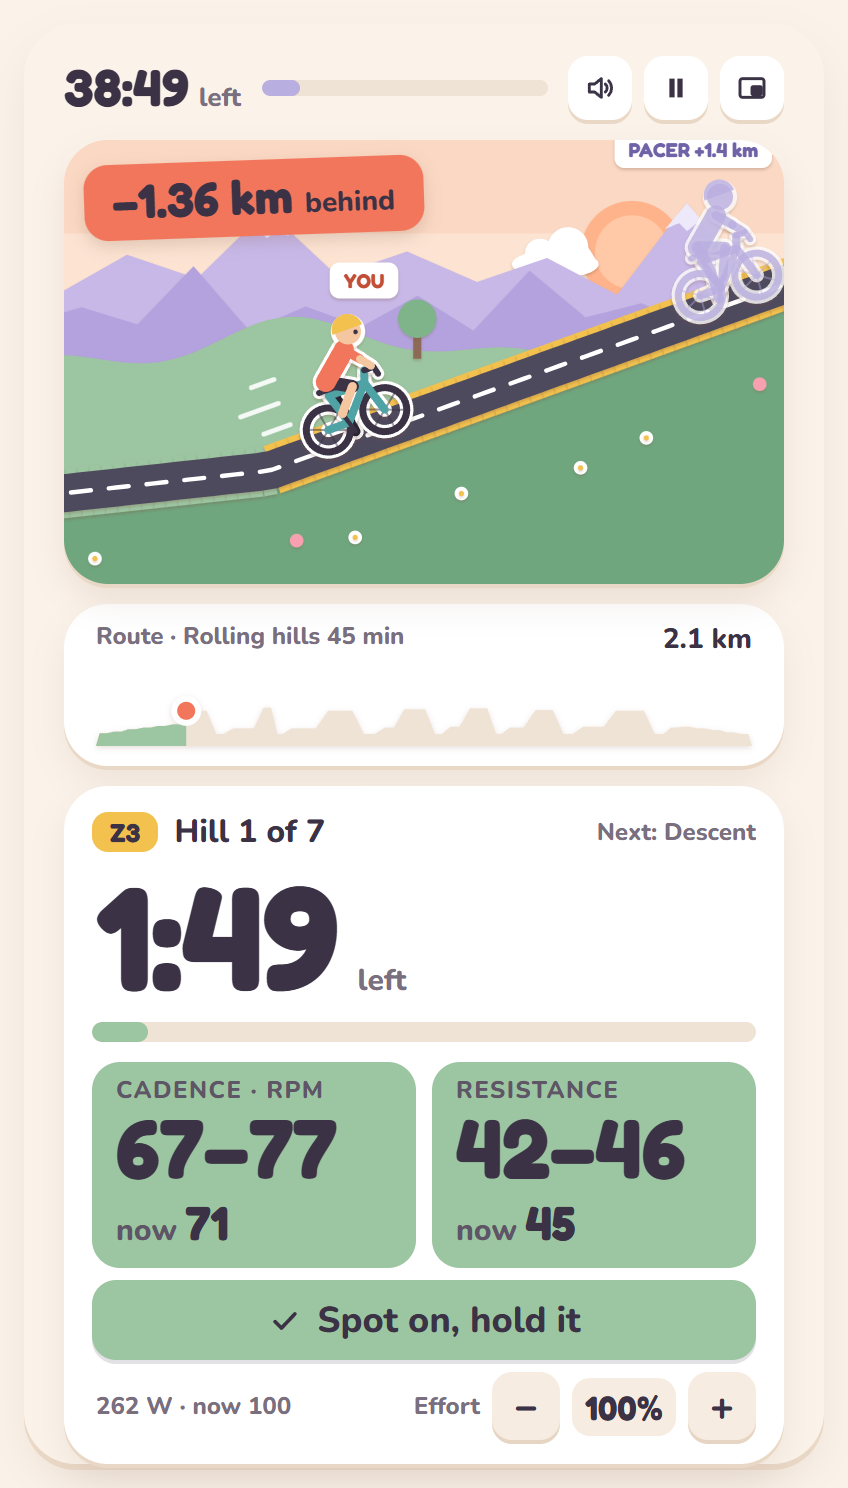
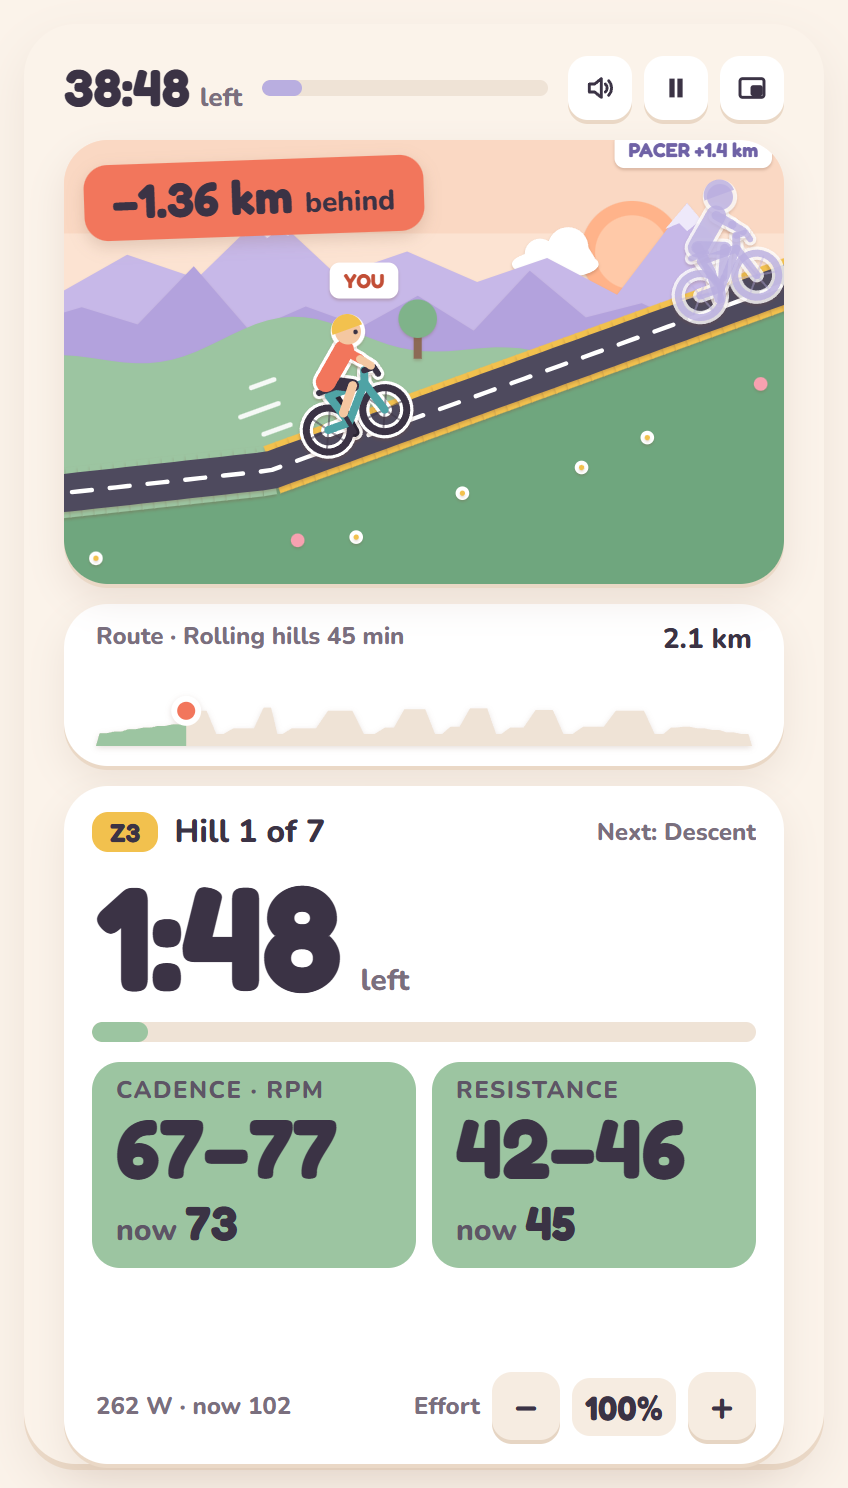
Hide the "Spot on" line when on target; shorter README
- With both tiles green there is nothing to change, so the hint line
  hides (keeping its space, so the window doesn't jump).
- The user-facing half of the README is about half the length.
- Ride screenshot retaken to match.

Claude-Session: https://claude.ai/code/session_019bcLdA25aR7snsdYMj9RXw

diff --git a/src/ui/app.js b/src/ui/app.js
@@ -930,6 +930,9 @@ function renderRide() {
     cue.dataset.icon = snap.cue.type;
   }
   $('cue-text').textContent = state.started ? snap.cue.text : 'Start pedalling';
+  // Nothing to change when both tiles are green, so the line steps aside. It
+  // keeps its space, so the window doesn't jump when it comes back.
+  cue.style.visibility = state.started && snap.cue.type === 'ok' ? 'hidden' : 'visible';
 
   updateRoute($('ride-panel'), s.workout, snap.t, ROUTE_W, ROUTE_H, state.routeHeight);
   $('route-dist').textContent = fmtKm(snap.dist);

diff --git a/README.md b/README.md
@@ -6,43 +6,30 @@
   <img src="docs/ride.png" alt="The Pacer mini window during a hill climb" width="280">
 </p>
 
-Riding a spin bike in front of Netflix or YouTube is a great way to get the
-minutes in, but it's easy to drift into a lazy spin. Pacer is a small window
-that sits on top of your show and tells you what to do next: what resistance
-to set, how fast to pedal, and how long until it changes.
+Pacer is a small window that sits on top of Netflix or YouTube while you ride
+your spin bike. It tells you what resistance to set, how fast to pedal, and
+how long until it changes.
 
-- 📺 **Made for watching something else.** One small always-on-top window,
-  readable at a glance from the saddle.
-- 🎯 **Spin-class targets.** A resistance and a cadence for every step, in the
+- 📺 **Stays on top of your show**, and is readable at a glance from the saddle.
+- 🎯 **Spin-class targets**: a resistance and a cadence for every step, in the
   numbers your bike's screen shows.
-- 👻 **Race yourself.** Each ride is a little cartoon race against your best
-  ride on that workout.
-- 🪶 **Lightweight.** Runs in your browser. No account, no subscription, no
-  installer, and nothing leaves your computer.
+- 👻 **Race yourself**: every ride is a cartoon race against your best one.
+- 🪶 **Lightweight**: it runs in your browser, with no account, and nothing
+  leaves your computer.
 
-Works with bikes that use standard Bluetooth (FTMS), such as the Schwinn
-800IC / IC4 / IC8 and Bowflex C6. Built and tested on a Schwinn 800IC.
+Works with standard Bluetooth (FTMS) bikes such as the Schwinn 800IC / IC4 /
+IC8 and Bowflex C6. Built and tested on a Schwinn 800IC.
 
 ## 🚀 Get started
 
-You need a computer with Bluetooth, **Chrome or Edge**, and
-[Node.js](https://nodejs.org) 18 or newer.
+You need **Chrome or Edge**, Bluetooth, and [Node.js](https://nodejs.org) 18+.
 
-1. Download this repository, open a terminal in its folder and run:
-
-   ```sh
-   npm start
-   ```
-
-2. Open <http://localhost:5173> in Chrome or Edge.
-3. Close any other app connected to your bike (Peloton, Zwift, JRNY), pedal a
-   few turns to wake it, then click **Connect bike** and pick it from the list.
-4. The first time, Pacer asks you to **calibrate**: about two and a half
-   minutes of pedalling so its resistance numbers match your bike's screen.
-5. Set your **easy pace** (step 3 of *Build a ride*): the resistance and
-   cadence you could hold while chatting. Every ride is sized from that.
-
-Then put your show on, build a ride and press **Start ride**.
+1. Download this repository and run `npm start` in its folder.
+2. Open <http://localhost:5173>.
+3. Pedal to wake the bike, click **Connect bike** and pick it from the list.
+   Close Peloton, Zwift or JRNY first: a bike takes one connection at a time.
+4. Calibrate when prompted (about two and a half minutes of pedalling), then
+   set your **easy pace**: the resistance and cadence you could chat at.
 
 ## 🛠 Build a ride
 
@@ -50,40 +37,21 @@ Then put your show on, build a ride and press **Start ride**.
   <img src="docs/build-a-ride.png" alt="Build a ride" width="760">
 </p>
 
-Four quick steps, and your choices are remembered for next time:
-
-1. ⏱ **Length.** A sitcom (22 min), half an hour, a drama (45), a double
-   (60), or anything from 10 to 120 minutes.
-2. 🗺 **Type.** Thirteen rides in four groups: *Steady* (endurance, recovery
-   spin, sweet spot), *Natural* (rolling hills, mountain climb, fartlek),
-   *Intervals* (intervals, HIIT, pyramid, sprints, cadence drills) and *Mixed*
-   (spin class, mix it up).
-3. 💪 **Effort.** Very easy, Easy, Normal, Hard or Very hard, or an exact
-   percentage. The preview shows what it will ask of you.
-4. 🏁 **Race.** Your best ride on this workout, your last one, or a pacer that
-   hits every target.
+Pick a length from 10 to 120 minutes, one of thirteen kinds of ride (steady,
+hills, intervals, spin class and more), how hard you want it, and who to race.
+Your choices are remembered, so next time it's one click.
 
 ## 📺 During a ride
 
-The ride opens in a small window that stays on top of everything else, so your
-show can be full screen behind it. Drag it bigger if the screen is across the
-room.
+- 🟩 Two tiles, **cadence** and **resistance**: green is in range, yellow too
+  low, blue too high.
+- ⛰ The road is the workout. A steeper hill means more resistance.
+- 🔔 A chime warns you before each change, so your eyes can stay on the show.
+- 🎚 Off day? **Effort − / +** makes the rest of the ride easier or harder.
 
-- 🟩 Two tiles, **cadence** and **resistance**. Green means you're in range,
-  yellow means too low, blue means too high, and a line underneath says what to
-  change.
-- ⛰ The road is the workout: a steeper hill means more resistance. Climbs are
-  ridden slow and heavy, recoveries light and fast.
-- 🔔 A soft chime warns you before each change, so you can keep your eyes on
-  the show.
-- ⚡ Hard blocks end in a 30-second sprint against your ghost.
-- 🎚 Having an off day? **Effort − / +** makes the rest of the ride easier or
-  harder.
+## 📈 Afterwards
 
-## 📈 After a ride
-
-The summary shows how the race went and how each hard effort compared with
-last time. **Statistics** keeps your totals, minutes per week and every ride.
+A summary of the race, and **Statistics** with your totals and minutes per week.
 
 <p align="center">
   <img src="docs/statistics.png" alt="Statistics" width="760">
@@ -91,40 +59,23 @@ last time. **Statistics** keeps your totals, minutes per week and every ride.
 
 ## 🔧 Calibration
 
-Most spin bikes have no power meter: they estimate watts from the resistance
-and how fast you pedal, and every model does it differently. Calibrating
-teaches Pacer your bike's formula. If the bike reports its resistance (the
-800IC does), Pacer keeps learning from every ride.
-
-**Calibration** in the top bar shows what it has learned.
+Spin bikes estimate watts from resistance and cadence, each model in its own
+way. Calibrating teaches Pacer your bike's formula, and if the bike reports
+its resistance (the 800IC does) it keeps learning from every ride.
 
 <p align="center">
   <img src="docs/calibration.png" alt="Calibration" width="460">
 </p>
 
-## 💾 Your data
+## 🩹 Good to know
 
-Rides and settings live in your browser, on your computer. **Import / export**
-saves them to a backup file or loads one, which is also how you move to another
-computer. Your bike's calibration is saved as `calibration.json` in the Pacer
-folder.
-
-## 🩹 If something goes wrong
-
-- **"Web Bluetooth needs Chrome or Edge."** Open Pacer in one of those, at
-  `http://localhost:5173`.
-- **The bike isn't in the list.** Pedal to wake it and check that no other app
-  or phone is connected to it. Still missing? Hold Shift and click **Connect
-  bike** to list every Bluetooth device nearby.
-- **It connects, but the numbers stay at zero.** Some bikes only send data
-  while you're pedalling.
-- **The resistance numbers don't match the bike's screen.** Open
-  **Calibration** and calibrate again.
-- **The watts look high.** They're whatever the bike reports, and bikes like
-  the 800IC estimate generously. It doesn't matter here: you only race
-  yourself on the same bike.
-- **No small window appeared.** Floating windows need Chrome or Edge 116 or
-  newer. The ride still runs in the main tab.
+- **Bike not in the list?** Pedal to wake it, and check no other app or phone
+  is connected. Shift-click **Connect bike** lists every device nearby.
+- **Resistance doesn't match the bike's screen?** Calibrate again, from
+  **Calibration** in the top bar.
+- **Watts look high?** They're the bike's own estimate. You only race yourself,
+  so it doesn't matter.
+- **Your data stays on your computer.** **Import / export** makes a backup.
 
 ---
 
